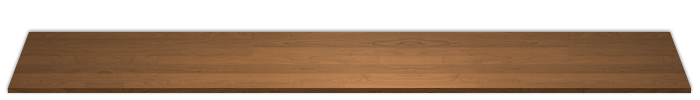
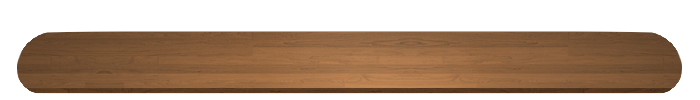
update pine skin

Changed region(s): [[0.03, 0.3, 0.99, 0.51], [0.0, 0.63, 0.06, 0.93], [0.93, 0.63, 0.99, 0.93]]

diff --git a/package/contents/skins/Pine/Config.qml b/package/contents/skins/Pine/Config.qml
@@ -9,9 +9,9 @@ QtObject {
     property int leftMargin: 40
     property int topMargin: 10
     property int rightMargin: 40
-    property int bottomMargin: 14
-    property int outsideLeftMargin: 0
-    property int outsideTopMargin: 18
-    property int outsideRightMargin: 0
+    property int bottomMargin: 10
+    property int outsideLeftMargin: -10
+    property int outsideTopMargin: 20
+    property int outsideRightMargin: -10
     property int outsideBottomMargin: -14
 }
